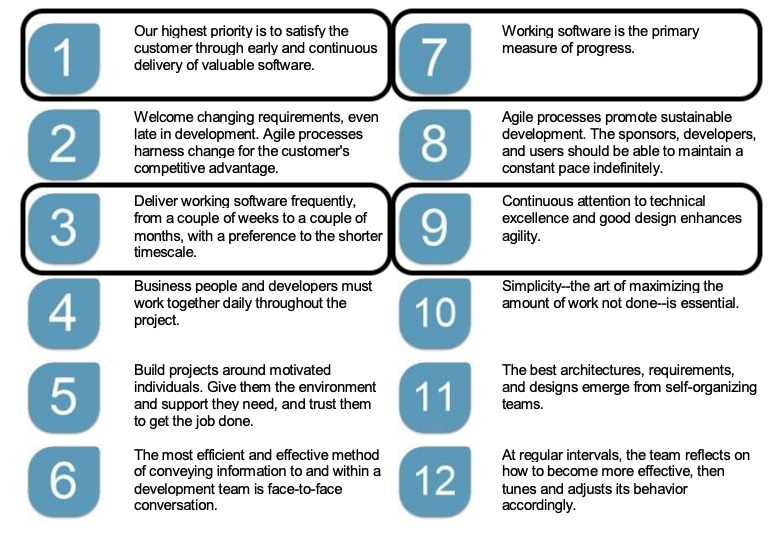
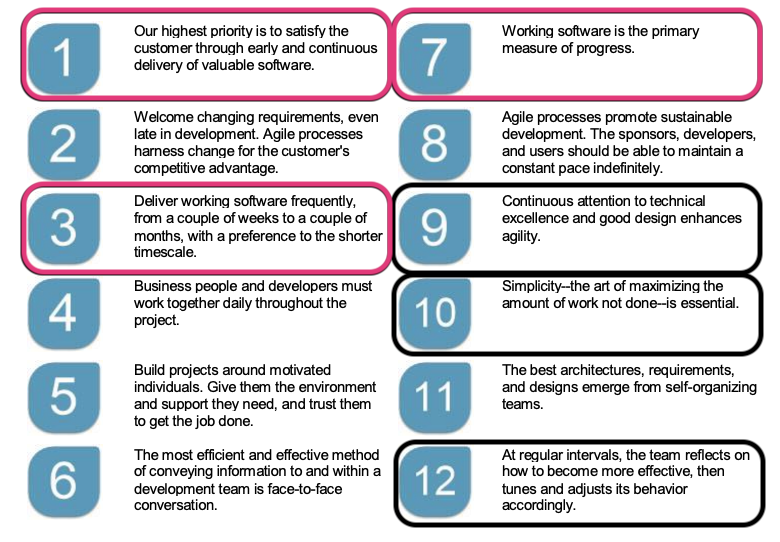
Finished - Draft 1

diff --git a/PITCHME.md b/PITCHME.md
@@ -51,9 +51,31 @@ Because it is really cool?
 It's all about delighting customers
 @snapend
 ---
-[comment]: <> (This is a comment, it will not be included)
+## Why have so many traditional software projects failed?
+@snap[west span-50 text-center fragment]
+We managed them as if they were other construction projects
+<br>
+(A Complicated Problem)
+@snapend
+@snap[east span-50 text-center fragment]
+@img[span-60](assets/img/blueprint.jpeg)
+@snapend
+@snap[south-east span-60 text-center fragment]
+@img[span-70](assets/img/gantt-chart.jpeg)
+@snapend
+---
+
 ## The Cynefin Framework
 ![Video](https://www.youtube.com/embed/N7oz366X0-8?start=160)
+For the full video go to: https://www.youtube.com/watch?v=N7oz366X0-8
+---
+## Distinguishing characteristics of these two problem domains
+- Complicated problems - Cause and Effect is predictable in advance
+- Complex problems - There is a cause and effect but only recognizable in hindsight
+---
+## The ways that we solve these problems is entirely different
+- Complicated problems - Do some analysis, make a plan, execute the plan
+- Complex problems - Have an approach, if it works continue to do it, if it doesn't, change something
 ---
 ## Concrete Examples
 @snap[west span-50 text-07 text-center ]
@@ -70,62 +92,63 @@ Which is Complex? Complicated?
 
 ---?include=agile-mindset/PITCHME.md
 ---
-## How Does an Agile Project Measure Success?
-@snap[midpoint span-95]
-@ul[list-square-bullets text-08 text-italic](true)
-- Success is measured by the width of the smile on the Customers face.
-@ulend
-@snapend
+## Tactics for Agile Teams
+@img[](assets/img/agile-principles-circled.png)
 ---
-## Agile Teams Focus on Technical Excellence
+## Continuous Attention to Technical Excellence - (9)
 - Automation is key (Unit Test Cases)
 - Refactoring
 - Code Review
+- Continuous Integration (with servers)
+- Distributed Version Control Systems (DVCS - Git)
 ---
-## DevOps takes this even further
-- Self regulating systems (compare dev and maintenance teams)
-- Verifiable Documentation
+## Reduce Complexity - (10)
+@img[south span-95](assets/img/ham.png)
+---
+## Continuous Improvement - (11)
+@img[south span-70](assets/img/make-time.png)
+---
+## Experiment - (11)
+@img[midpoint span-60](assets/img/experiment.png)
+---
+## Willingness to Fail - (11)
+@img[midpoint span-65](assets/img/fail.jpg)
+---
+## Desire to Learn - (11)
+@img[south span-50](assets/img/brain.jpg)
+---
+## DevOps Builds on This Even Further
 - Automation of .... well everything
 - Infrastructure as code (Puppet, Chef, Docker)  
-- Continuous testing
-- Continuous pipelines
-- Continuous deployment
+  - Build scripts (Environment)
+- Continuous Delivery/Deployment (CD)
 - Realtime diagnostics
-
 ---
 ## The Fcc Journey
-- A small team was created with 2 agile coaches.
-- Success - Why? Customers were delighted
-  - But the bar was low. :-)
-- Trained each team in scrum and that was it. The whole organization bought into the Agile Mindset and we all lived happily ever after. - The End -
-
+#### Trained each team in scrum and that was it. The whole organization bought into the Agile Mindset and we all lived happily ever after.
+<br>- The End -
 ---
-## Not Quite
-### We made mistakes:
+### Well... Not Quite.<br> We had some learnings along the way
+@snap[midpoint span-95 text-07 text-center]
+- A small team was created with 2 agile coaches.
+- Successful - Customers were delighted
+  - But the bar was pretty low.
+- Reorganized the team into product teams.
+  - Less despendencies between Teams
+  - Able to deliver (Soup to nuts)
 - Adopted scrum first, but didn't focus on the mindset
-- Needs constant reinforcing / coaching / training
+- Needed constant reinforcing - Coaches left too soon
 - Created the Agile Center of Excellence (Ace)
   - Dojos.
----
-## Mistakes that are commonly made:
-### The first thing that everyone adopts is terminology and ceremony
-- 6 month Sprints
-- Iterations
-- Stand-ups
-
+@snapend
 ---
 ### Summary
-- Agile is first and foremost a mindset.
-- Agile is not an absolute term
-- Waterfall can work but works better for complex problems
-- Focus on truly empowering the teams (Mindset shift)
-- Treat software as an asset (Mindset shift)
-- Disney story (parking) Micky Mouse.png (Goofy)
-- Focus on Continuous Feedback  
-- This is actually a bigger issue (Complex vs Complicated - Child rearing example)
-
+- Agile is first and foremost a mindset
+- DevOps builds on the Agile practices, but with even more emphasis on automation
+- Waterfall approach works better for complicated problems
 ---
-# And Finally ...
-@img[fragment](assets/img/thank-you.jpg)
-
-Parting Words
+## And Finally ...
+If you can look back in 6 months and say<br><br>"We are more Agile today than we were 6 months ago"<br><br>That's progress. Enjoy the Journey
+---
+@img[midpoint](assets/img/thank-you.jpg)
+@img[south-east span-25](assets/img/bio-greg-on-hill.jpg)

diff --git a/agile-mindset/PITCHME.md b/agile-mindset/PITCHME.md
@@ -95,50 +95,6 @@
 - Early sign offs
 - Test plans
 @snapend
-
----
-@title[Pace of Change]
-## Why do we want to<br> be Agile?
-@quote[The pace of change has never been this fast, yet it will never be this slow again]
----
-## We can't predict the future
-@img[midpoint](assets/img/mind-reader.png)
-
----
-## What were they missing?
-@img[west span-30](assets/img/blockbuster.png)
-@img[midpoint span-30](assets/img/kodak.jpg)
-@img[east span-30](assets/img/toysrus.png)
-
----
-## Ability to adapt
-@img[midpoint span-80](assets/img/adaptability.jpg)
-
----
-## How do we adapt quickly?
----
-### Limit work in progress (wip)
-@img[south span-80](assets/img/limit-wip.png)
-
----
-## Embrace experimentation
-@img[midpoint span-60](assets/img/experiment.png)
-
----
-## Willingness to fail
-@img[midpoint span-65](assets/img/fail.jpg)
-
----
-## Desire to learn
-@img[south span-50](assets/img/brain.jpg)
-
----
-## Continuous improvement
-@img[south span-70](assets/img/make-time.png)
-
----
-## Reduce complexity
-@img[south span-95](assets/img/ham.png)
 ---
 ## So ... agile is **not**
 - a specific way of delivering solutions
